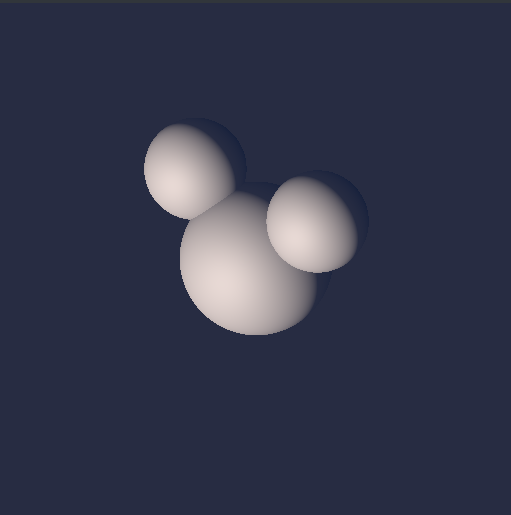
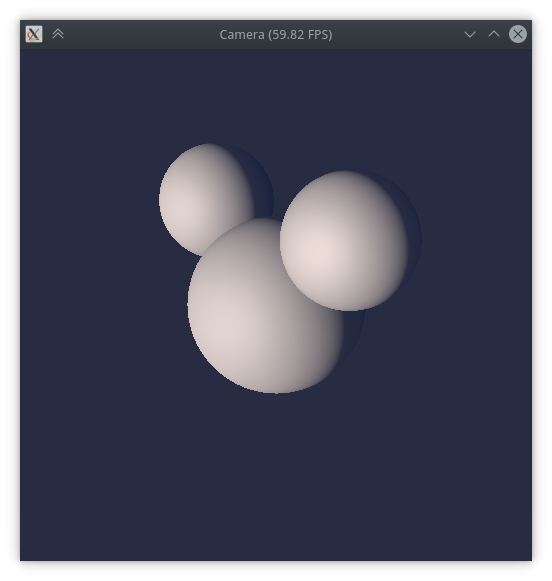
camera.from_mouse

diff --git a/taichi_three/scene.py b/taichi_three/scene.py
@@ -2,14 +2,15 @@ import taichi as ti
 import taichi_glsl as ts
 from .common import EPS, INF
 from .objects import Ball
+import math
 
 
-class RenderOptions:
+class Shader:
     def __init__(self, **kwargs):
         self.is_normal_map = False
         self.lambert = 0.58
         self.half_lambert = 0.04
-        self.blinn_phong = 0.28
+        self.blinn_phong = 0.3
         self.phong = 0.0
         self.shineness = 10
         self.__dict__.update(kwargs)
@@ -51,29 +52,23 @@ class RenderOptions:
 
 
 @ti.data_oriented
-class SceneBase:
-    def __init__(self, res=(512, 512)):
-        self.res = res
-        self.img = ti.Vector(3, ti.f32, self.res)
-        self.light_dir = ti.Vector(3, ti.f32, ())
-        self.camera = ti.Matrix(3, 3, ti.f32, ())
-        self.cam_pos = ti.Vector(3, ti.f32, ())
-        self.opt = RenderOptions()
-        self.balls = []
+class Camera:
+    ORTHO = 'Orthogonal'
+    TAN_FOV = 'Tangent Perspective'
+    COS_FOV = 'Cosine Perspective'
 
-    def trace(self, pos, dir):
-        raise NotImplementedError
+    def __init__(self):
+        self.trans = ti.Matrix(3, 3, ti.f32, ())
+        self.pos = ti.Vector(3, ti.f32, ())
+        self.type = self.TAN_FOV
+        self.fov = 25
+        self.is_set = False
 
-    def set_light_dir(self, ldir):
-        import math
-        norm = math.sqrt(sum(x**2 for x in ldir))
-        ldir = [x / norm for x in ldir]
-        self.light_dir[None] = ldir
+    def set(self, pos=[0, 0, -2], target=[0, 0, 0], up=[0, 1, 0]):
+        self.is_set = True
 
-    def set_camera(self, pos=[0, 0, -2], lookat=[0, 0, 0], up=[0, 1, 0]):
-        import math
-        # fwd = lookat - pos
-        fwd = [lookat[i] - pos[i] for i in range(3)]
+        # fwd = target - pos
+        fwd = [target[i] - pos[i] for i in range(3)]
         # fwd = fwd.normalized()
         fwd_len = math.sqrt(sum(x**2 for x in fwd))
         fwd = [x / fwd_len for x in fwd]
@@ -93,23 +88,78 @@ class SceneBase:
              right[1] * fwd[0] - right[0] * fwd[1],
              ]
 
-        # camera = ti.Matrix.cols([right, up, fwd])
-        camera = [right, up, fwd]
-        camera = [[camera[i][j] for i in range(3)] for j in range(3)]
-        self.camera[None] = camera
-        self.cam_pos[None] = pos
+        # trans = ti.Matrix.cols([right, up, fwd])
+        trans = [right, up, fwd]
+        trans = [[trans[i][j] for i in range(3)] for j in range(3)]
+        self.trans[None] = trans
+        self.pos[None] = pos
+
+    def from_mouse(self, mpos, dis=2):
+        if isinstance(mpos, ti.GUI):
+            mpos = mpos.get_cursor_pos()
+
+        a, t = mpos
+        if a != 0 or t != 0:
+            a, t = a * math.tau - math.pi, t * math.pi - math.pi / 2
+        d = dis * math.cos(t)
+        self.set(pos=[d * math.sin(a), dis * math.sin(t), -d * math.cos(a)])
+
+    @ti.func
+    def trans_pos(self, pos):
+        return self.trans[None] @ pos + self.pos[None]
+
+    @ti.func
+    def trans_dir(self, pos):
+        return self.trans[None] @ pos
+
+    @ti.func
+    def generate(self, coor):
+        fov = ti.static(math.radians(self.fov))
+        tan_fov = ti.static(math.tan(fov))
+
+        orig = ts.vec3(0.0)
+        dir  = ts.vec3(0.0, 0.0, 1.0)
+
+        if ti.static(self.type == self.ORTHO):
+            orig = ts.vec3(coor, 0.0)
+        elif ti.static(self.type == self.TAN_FOV):
+            uv = coor * fov
+            dir = ts.normalize(ts.vec3(uv, 1))
+        elif ti.static(self.type == self.COS_FOV):
+            uv = coor * fov
+            dir = ts.vec3(ti.sin(uv), ti.cos(uv.norm()))
+
+        orig = self.trans_pos(orig)
+        dir = self.trans_dir(dir)
+
+        return orig, dir
+
+
+@ti.data_oriented
+class SceneBase:
+    def __init__(self, res=(512, 512)):
+        self.res = res
+        self.img = ti.Vector(3, ti.f32, self.res)
+        self.light_dir = ti.Vector(3, ti.f32, ())
+        self.camera = Camera()
+        self.opt = Shader()
+        self.balls = []
+
+    def trace(self, pos, dir):
+        raise NotImplementedError
+
+    def set_light_dir(self, ldir):
+        norm = math.sqrt(sum(x**2 for x in ldir))
+        ldir = [x / norm for x in ldir]
+        self.light_dir[None] = ldir
 
     @ti.kernel
-    def render(self):
+    def _render(self):
         for I in ti.grouped(self.img):
             scale = ti.static(2 / min(*self.img.shape()))
             coor = (I - ts.vec2(*self.img.shape()) / 2) * scale
 
-            orig = ts.vec3(coor, 0.0)
-            dir = ts.vec3(0.0, 0.0, 1.0)
-
-            orig = self.camera[None] @ orig + self.cam_pos[None]
-            dir = self.camera[None] @ dir
+            orig, dir = self.camera.generate(coor)
 
             pos, normal = self.trace(orig, dir)
             light_dir = self.light_dir[None]
@@ -117,6 +167,12 @@ class SceneBase:
             color = self.opt.render_func(pos, normal, dir, light_dir)
             color = self.opt.pre_process(color)
             self.img[I] = color
+
+    def render(self):
+        if not self.camera.is_set:
+            self.camera.set()
+
+        self._render()
 
     def add_ball(self, pos, radius):
         b = Ball(pos, radius)

diff --git a/examples/physics.py b/examples/physics.py
@@ -1,7 +1,7 @@
 import taichi as ti
 import taichi_glsl as ts
 import taichi_three as t3
-from math import cos, sin
+from math import cos, sin, tan, pi, tau
 from time import time
 ti.init(ti.opengl)
 
@@ -16,12 +16,9 @@ bound = ti.Vector(3, ti.f32, ())
 
 scene.add_ball(pos, radius)
 scene.set_light_dir([1, 1, -1])
-scene.set_camera()
 
 @ti.kernel
 def init():
-    bound[None] = ts.vec3(*scene.res, scene.res[0])
-    bound[None] /= scene.res[1]
     for i in pos:
         pos[i] = ts.randNDRange(ts.vec3(-1), ts.vec3(1))
         vel[i] = ts.randNDRange(ts.vec3(-1.1), ts.vec3(1.1))
@@ -51,9 +48,9 @@ def substep():
 
     for i in pos:
         for j in ti.static(range(3)):
-            if vel[i][j] < 0 and pos[i][j] < -bound[None][j] + radius[i]:
+            if vel[i][j] < 0 and pos[i][j] < -1 + radius[i]:
                 vel[i][j] *= -0.8
-            if vel[i][j] > 0 and pos[i][j] > bound[None][j] - radius[i]:
+            if vel[i][j] > 0 and pos[i][j] > 1 - radius[i]:
                 vel[i][j] *= -0.8
 
     for i in pos:
@@ -65,6 +62,7 @@ while gui.running:
     gui.running = not gui.get_event(ti.GUI.ESCAPE)
     for i in range(4):
         substep()
+    scene.camera.from_mouse(gui, dis=4)
     scene.render()
     gui.set_image(scene.img)
     gui.show()

diff --git a/taichi_three/version.py b/taichi_three/version.py
@@ -2,4 +2,14 @@ version = (0, 0, 1)
 taiglsl_version = (0, 0, 4)
 taichi_version = (0, 6, 10)
 
-print(f'[TaiTHREE] version {".".join(map(str, version))}')
+print(f'[Tai3D] version {".".join(map(str, version))}')
+
+if 1:
+    print("===========================================================")
+    print("Thank you for choosing Taichi THREE!")
+    print("The package is work in progress and your feedback can be")
+    print("more than important to us :-)")
+    print("So if you encounter any problem, or you've some cool ideas,")
+    print("please let us know by opening an issue on GitHub:")
+    print("https://github.com/taichi-dev/taichi_three/issues")
+    print("===========================================================")

diff --git a/examples/camera.py b/examples/camera.py
@@ -1,7 +1,6 @@
 import taichi as ti
 import taichi_glsl as ts
 import taichi_three as t3
-from math import cos, sin, tan, pi, tau
 ti.init(ti.opengl)
 
 scene = t3.Scene()
@@ -20,10 +19,7 @@ pos[2] = [+0.3, 0.3, 0]
 gui = ti.GUI('Camera')
 while gui.running:
     gui.running = not gui.get_event(ti.GUI.ESCAPE)
-    a, t = gui.get_cursor_pos()
-    if a != 0 and t != 0:
-        a, t = a * tau - pi, t * pi - pi / 2
-    scene.set_camera([1 * sin(a), 1 * tan(t), -1 * cos(a)])
+    scene.camera.from_mouse(gui)
     scene.render()
     gui.set_image(scene.img)
     gui.show()

diff --git a/examples/cartoon.py b/examples/cartoon.py
@@ -12,7 +12,6 @@ cartoon_level = ti.var(ti.f32, ())
 
 scene.add_ball(pos, radius)
 scene.set_light_dir([1, 2, -2])
-scene.set_camera()
 
 @ti.func
 def my_render_func(pos, normal, dir, light_dir):

diff --git a/examples/normal_map.py b/examples/normal_map.py
@@ -9,7 +9,6 @@ pos = ti.Vector(3, ti.f32, n)
 radius = ti.var(ti.f32, n)
 
 r.add_ball(pos, radius)
-r.set_camera()
 r.opt.is_normal_map = True
 
 gui = ti.GUI('Ball', r.res)

diff --git a/examples/ball.py b/examples/ball.py
@@ -9,7 +9,6 @@ pos = ti.Vector(3, ti.f32, 1)
 radius = ti.var(ti.f32, 1)
 
 scene.add_ball(pos, radius)
-scene.set_camera()
 
 radius[0] = 0.5
 gui = ti.GUI('Ball')

diff --git a/README.md b/README.md
@@ -53,7 +53,6 @@ radius = ti.var(ti.f32, n)
 
 scene.add_ball(pos, radius)      # pass the tensors directly, not pos[...]!
 scene.set_light_dir([1, 2, -2])  # scene will do normalization for you :)
-scene.set_camera([0, 0, -1])     # always set camera before rendering.
 ```
 
 ---
@@ -87,9 +86,8 @@ scene = t3.Scene()
 pos = ti.Vector(3, ti.f32, 1)
 radius = ti.var(ti.f32, 1)
 
-scene.add_ball(pos, radius)      # provide data tensor
-scene.set_light_dir([1, 2, -2])  # parallel light direction
-scene.set_camera([0, 0, -1])     # camera position, look towards Z+
+scene.add_ball(pos, radius)
+scene.set_light_dir([1, 2, -2])
 
 radius[0] = 0.5
 
